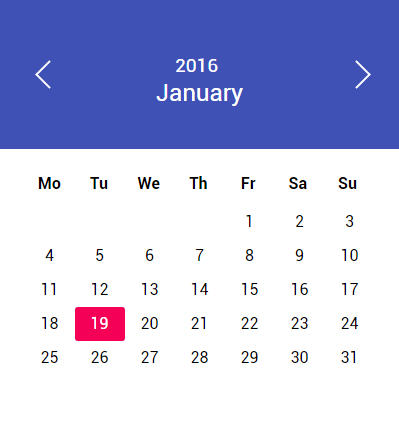
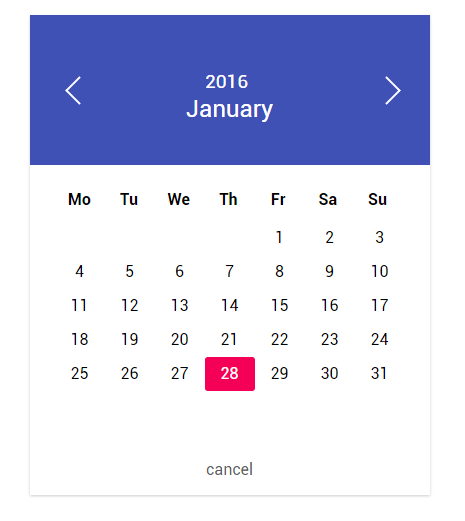
add:cancel fix:inputed time show

diff --git a/vue-datepicker.vue b/vue-datepicker.vue
@@ -33,6 +33,7 @@ export default {
         year: []
       },
       checked: {
+        oldtime: '',
         currentMoment: null,
         year: '',
         month: '',
@@ -45,15 +46,12 @@ export default {
     nextMonth(type) {
         let next = null;
 
-        if (type == 'next') {
-          next = moment(this.checked.currentMoment).add(1, 'M')
-        } else {
-          next = moment(this.checked.currentMoment).add(-1, 'M')
-        }
+        type == 'next' ? next = moment(this.checked.currentMoment).add(1, 'M') : next = moment(this.checked.currentMoment).add(-1, 'M')
 
         this.showDay(next)
       },
       showDay(time) {
+
         if (time === undefined) {
           this.checked.currentMoment = moment()
         } else {
@@ -72,14 +70,14 @@ export default {
         let currentMoment = time
         let firstDay = moment(currentMoment).date(1).day()
         let monthDays = moment(currentMoment).daysInMonth()
-
+        let oldtime = this.checked.oldtime;
         for (let i = 1; i <= monthDays; ++i) {
           days.push({
             value: i,
             inMonth: true,
             checked: false
           })
-          if (i == Math.ceil(moment(currentMoment).format("D")) && moment(currentMoment).month() == moment().month() && moment(currentMoment).year() == moment().year()) {
+          if (i == Math.ceil(moment(currentMoment).format("D")) && moment(oldtime).year() == moment(currentMoment).year() && moment(oldtime).month() == moment(currentMoment).month()) {
             days[i - 1].checked = true
           }
         }
@@ -177,7 +175,13 @@ export default {
         this.showDay(this.checked.currentMoment)
       },
       showCheck() {
-        this.time=='' ? this.showDay() : this.showDay(this.time) 
+        if (this.time == '') {
+          this.showDay()
+        } else {
+          this.checked.oldtime = this.time
+          this.showDay(this.time)
+        }
+
         this.showInfo.check = true;
       }
 
@@ -403,6 +407,22 @@ table {
   display: inline-block;
   color: #5D5D5D;
 }
+
+.cancel {
+  background: #fff;
+  vertical-align: top;
+  height: 50px;
+  line-height: 50px;
+}
+
+.cancel span {
+  cursor: pointer;
+  padding: 10px 20px;
+}
+
+.cancel span:hover{
+  background: #E2E2E2;
+}
 </style>
 <template>
   <div class="cov-vue-date">
@@ -439,6 +459,7 @@ table {
           <div class="year-item" v-for="monthItem in library.month" track-by="$index" @click="setMonth(monthItem)">{{monthItem}}</div>
         </div>
       </div>
+      <div class="cancel"><span @click="showInfo.check=false">cancel</span></div>
     </div>
   </div>
 </template>
